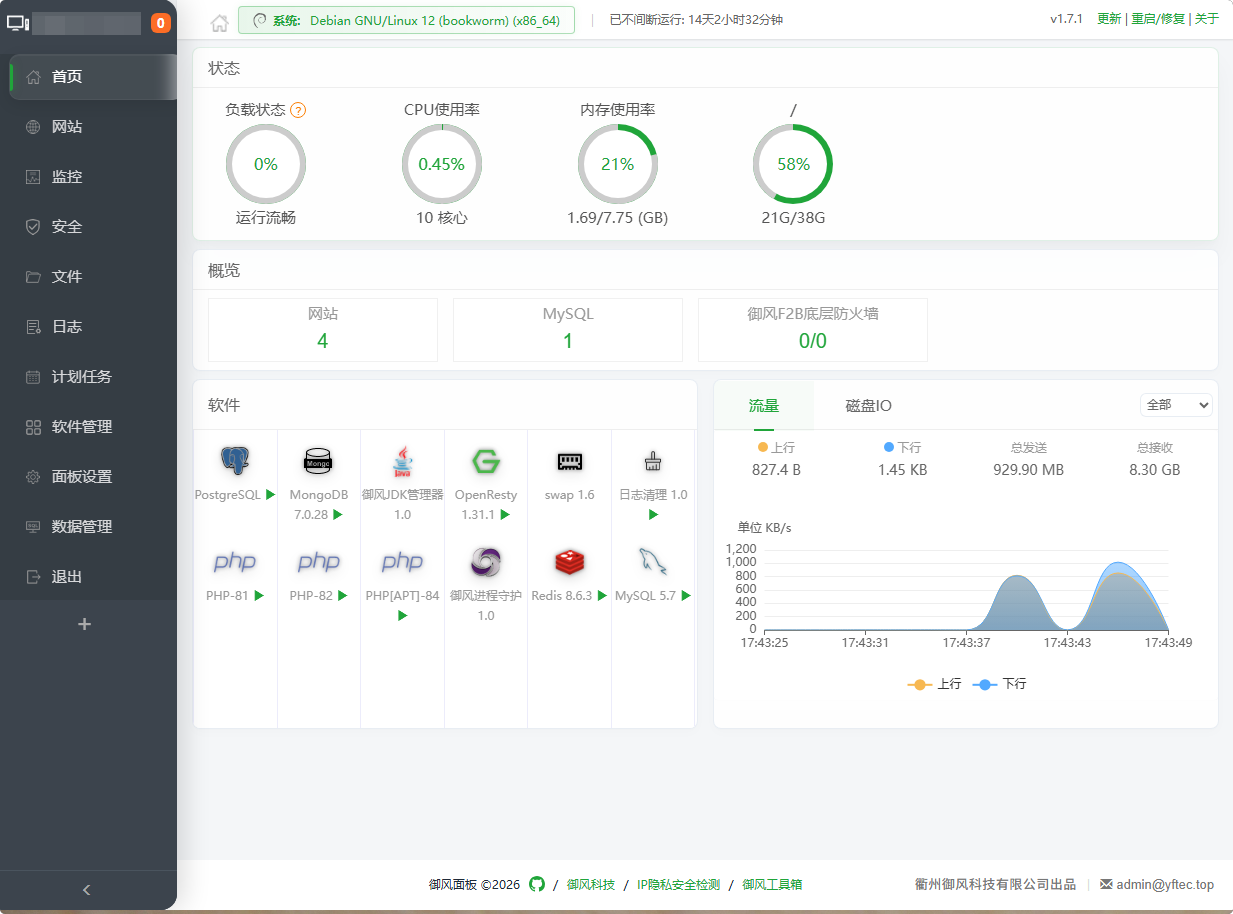
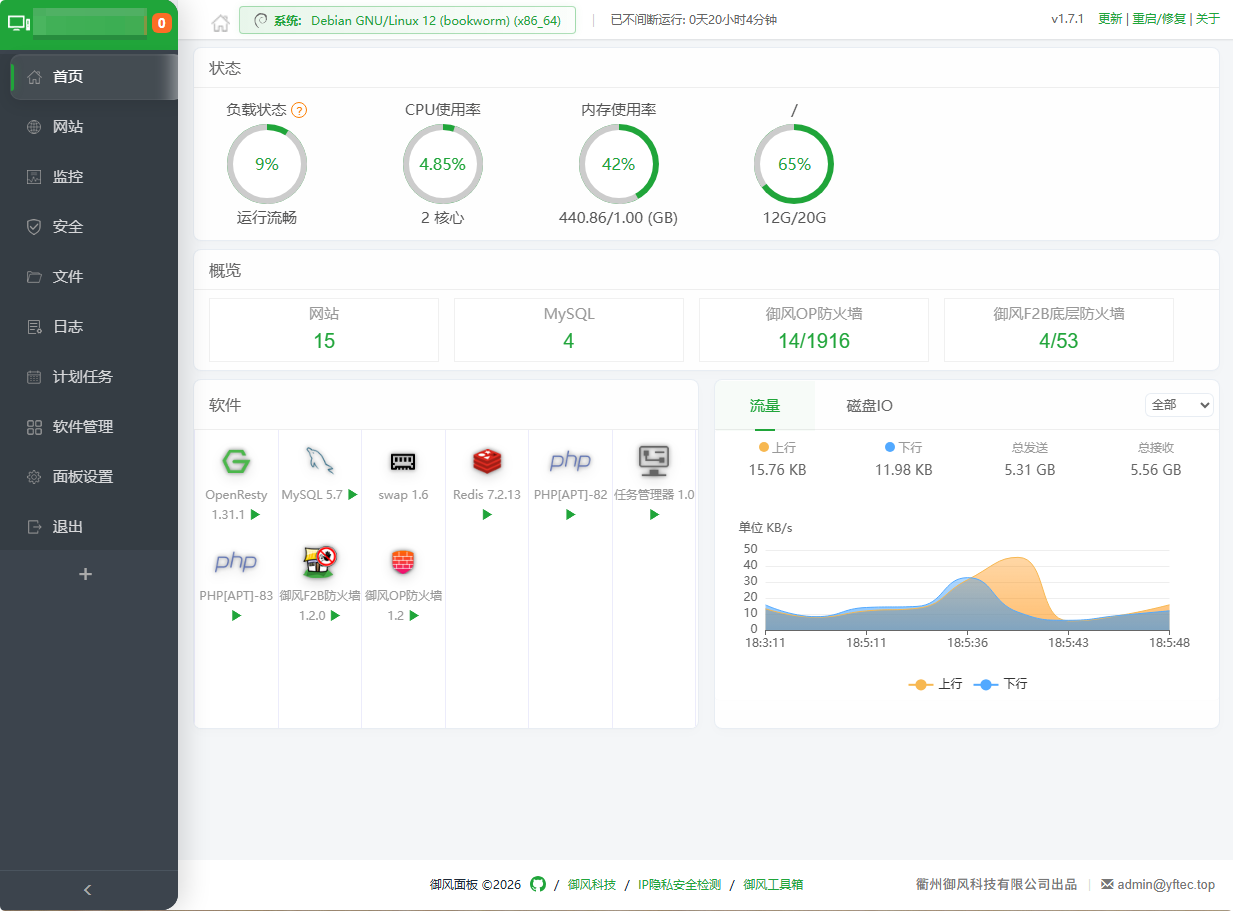
文档

diff --git a/README.md b/README.md
@@ -20,9 +20,14 @@
 
 本项目在原版基础上进行了深度的安全性审计与性能优化，旨在为用户提供一个既强大又透明的服务器管理工具。
 
+![登录页](https://raw.githubusercontent.com/clhome/bt_simple/master/文档/御风面板说明书/说明书.assets/image-20260630174158629.png)
+
 ### 核心特性
 
 - **轻量高效**：相比于传统面板，BtSimple 占用资源极低，非常适合小内存 VPS。
+
+![首页](https://raw.githubusercontent.com/clhome/bt_simple/master/文档/御风面板说明书/说明书.assets/image-20260630174421927.png)
+
 - **安全加固**：
   - **100% 独立解耦与后门物理清洗**：全局清除了已发现的所有后门及网络依赖，实现了完全自主、去中心化的纯净自运维架构。
   - **Python 关键依赖加固**：在 `requirements.txt` 中升级并加固 `paramiko>=3.4.0` 与 `chardet>=4.0.0`，彻底防御 SSH Terrapin (CVE-2023-48795) 通信中间人劫持以及古老字符解析死循环等灾难级系统漏洞。
@@ -30,40 +35,62 @@
   - 密码存储全面升级为 `bcrypt` 算法。
   - 强制支持 TLS 1.2+ 高安全通信协议。
   - 具备智能 IP 封禁机制，防范暴力破解；Fail2ban 升级支持**全局站点保护**与**严格校验模式**。
-  - 严密的 CSRF 防护与文件路径遍历检测；Web 应用防火墙（WAF）引入**全域蜜罐诱饵阻断**机制，任意目录下触发关键字即行物理禁止。
+  - 严密的 CSRF 防护与文件路径遍历检测；御风OP防火墙引入**全域蜜罐诱饵阻断**机制，任意目录下触发关键字即行物理禁止。
   - **卸载双防御机制**：软件卸载需输入名称二次验证，并默认自动打包备份核心数据，防止因误操作导致业务数据损坏。
+
+  ![首页](https://raw.githubusercontent.com/clhome/bt_simple/master/文档/御风面板说明书/说明书.assets/image-20260630174852542.png)
+
 - **计划任务深度重构**：
   - **模态化管理**：任务添加移至模态框，界面更清爽。
   - **导入/导出**：支持任务配置的 JSON 备份与跨平台迁移。
   - **智能策略**：支持股票开盘日、工作日、节假日等云端日期限制执行。
   - **日志优化**：支持日志框高度动态扩展、5秒自动刷新、执行任务后自动弹出日志及空日志友好展示。
   - **高效运维**：支持模糊搜索与多字段动态排序，实时持久化任务执行时间。
+
+  ![登录页](https://raw.githubusercontent.com/clhome/bt_simple/master/文档/御风面板说明书/说明书.assets/image-20260605163440643.png)
+
 - **文件管理体验优化**：
   - **多标签页**：支持浏览器风格的多目录同时操作与本地状态持久化。
+
+  ![多标签](https://raw.githubusercontent.com/clhome/bt_simple/master/文档/御风面板说明书/说明书.assets/image-20260605164326823.png)
+
   - **全屏拖拽**：深度支持文件/文件夹递归拖入上传，自动解析并保留目录层级。
   - **预上传清单**：上传前展示详细统计清单，当有同名项目时醒目提示 `(会覆盖)`，并直观横向对比服务器端与待上传文件的精确大小（如 `18.1KB <= 17.56KB`）。
+
+  ![文件管理](https://raw.githubusercontent.com/clhome/bt_simple/master/文档/御风面板说明书/说明书.assets/image-20260605164605516.png)
+
 - **首页极致加载加速与 CDN-Fallback 本地双回退重构**：
   - **按需延迟加载**：彻底剥离全局 336KB 的 ECharts 资源加载，仅在首页和监控页渲染时动态加载，日常操作页面请求体积和请求数暴跌。
   - **支持高速 CDN 加速**：核心通用第三方样式和脚本文件（jQuery、Bootstrap、Layer、Marked、Socket.io、XTerm、CodeMirror、LayDate 等）接入 Staticfile 高速 CDN 托管，针对网络性能较差主机有较好的访问体验。
   - **本地自动双回退**：设计了零延迟的 Fallback 安全兜底机制。利用 CSS `onerror` 与 JS 全局变量双重校验，在 CDN 网络被阻断时，几十毫秒内自动无感切换回载服务器本地静态文件，兼顾弱网秒开和 100% 离线/局域网环境的完美可用性。
+
 - **高频监控零阻塞与极简低能耗计算重构**：
   - **非阻塞零挂起**：彻底重构 `getCpuInfo` 并消除原先阻塞后台线程整整 1.0 秒的同步 psutil 性能缺陷，将首页 API 响应提速 10 倍以上。
   - **数学均值折算**：科学利用“总 CPU 使用率恒等于各核心使用率的算术平均值”原理，减少了一次多余且产生数据冲突的 `psutil.cpu_percent` 系统调用。
   - **网卡计数器 O(1) 优化**：将 `stats.py` 中重复在网卡循环内部的多次 `psutil.net_io_counters(pernic=True)` 系统 API 调用提取至循环外一次性执行，使得在多网卡/容器复杂主机下的资源开销由 O(N) 降为 O(1)。
+
 - **高水准高保真视觉与物理微交互升级**：
   - **磨砂玻璃拟态**：为首页状态、概览、软件、流量/IO 四大核心卡片点缀高品质玻璃拟态（Glassmorphism）、`backdrop-filter` 滤镜与弥散光影。
   - **物理级动效复用并集**：为每一个软件格子和系统概览方框注入了 Hover 物理向上悬浮变圆角、Active 按压物理陷落 `scale(0.96)` 等贝塞尔曲线弹性微交互；首页整体高度极致压缩，绝大分辨率下刚好一屏显示完，避免出现多余滚动条。
   - **极速全局菜单配置**：全新开发左侧主菜单动态显隐与自由拖拽排序功能。底层摒弃了厚重的数据库读取，创新采用“进程级内存缓冲 + JSON持久化”的高性能架构，在实现高度个性化面板布局的同时，保持每次页面刷新毫无磁盘 I/O 的极致响应体验。
+
+  ![系统详情](https://raw.githubusercontent.com/clhome/bt_simple/master/文档/御风面板说明书/说明书.assets/image-20260630174623767.png)
+
 - **软件管理与网站配置深度增强**：
+
   - **首页软件展示扩容**：首页软件网格从 4 列压缩为 col-lg-2（一行展示 6 个），最大展现数从 12 个扩增到 18 个，大幅提升高频工具的直观展现。
   - **官方生态精选与第三方插件隐身隔离**：深度重构软件管理展示逻辑，默认仅展示官方精选认证的插件。同时在界面右上角新增带弹性交互的隐藏齿轮弹窗，支持一键显示第三方/自定义上传插件，并打上醒目的 `(第三方)` 警示徽章，在保障面板生态纯净度与安全性的同时保留极客级拓展能力。
   - **网站详情扩充**：网站列表新增“日流量估算”、“PHP版本”和“SSL证书有效天数”，对标行业一流管理面板的概览视图。
   - **面板 90 天免费 SSL**：面板 SSL 全新适配 90 天免费证书申请，支持一键申请 Let's Encrypt / ACME 证书并智能自动创建桥接站点，无缝完成文件验证、证书配置与面板自动重启。
   - **防误删双保险与缓存清理**：卸载插件时强制进行名称二次验证并默认自动打包备份核心数据至 `/www/backup`，杜绝手误删库风险；新增一键清理安装包缓存功能，释放无用磁盘空间。
+
 - **Docker 容器智能容灾管理**：
   - 彻底修补多处命令注入漏洞；新增可视化加速器（Mirror）管理。独创了镜像拉取失败时的**自动节点容灾重试**机制，保障恶劣网络环境下的极速容器部署，并精准拦截假阳性报错。
+
 - **全能管理**：集成 OpenResty, MySQL, PHP, Redis, MongoDB 等常用环境。
+
 - **插件化架构**：功能高度解耦，按需安装，支持自定义插件开发。
+
 - **极致兼容**：完美支持一键从 **mdserver-web** 或 **宝塔面板 (BT.CN)** 平滑迁移。
 
 ---